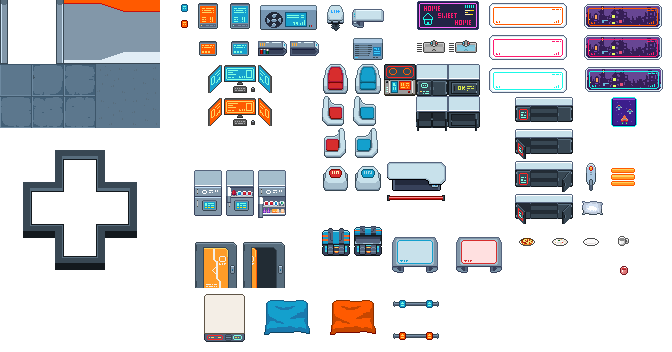
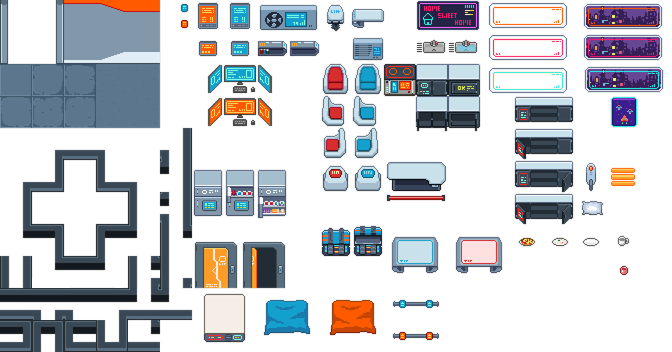
feat: update tile mapping to improve visual junctions in dungeon generation and tileset (draft)

diff --git a/src/game/systems/DungeonGenerator.ts b/src/game/systems/DungeonGenerator.ts
@@ -161,13 +161,6 @@ export class DungeonGenerator {
 
       // Top wall - riga 1 (cap arancione)
       groundLayer.weightedRandomize(TILES.WALL.TOP,      left + 1, top,     width - 2, 1);
-      // Propaga tile 4 a destra del primo tile 3: [2...2, 3, 4...4]
-      let fillTop = false;
-      for (let cx = left + 1; cx <= right - 1; cx++) {
-        const t = groundLayer.getTileAt(cx, top);
-        if (fillTop) { groundLayer.putTileAt(4, cx, top); }
-        else if (t && t.index === 3) { fillTop = true; }
-      }
       // Top wall - riga 2 (corpo grigio)
       groundLayer.weightedRandomize(TILES.WALL.TOP_BODY, left + 1, top + 1, width - 2, 1);
       // Bottom wall
@@ -226,9 +219,81 @@ export class DungeonGenerator {
       }
     });
 
+    // Pass 2a-fix: when the bottom of a LEFT door (210) is directly right of a RIGHT door bottom (150),
+    // replace 210 with 148 to match the correct visual junction.
+    // Also: when a BOTTOM door frame (148) is directly right of a RIGHT door frame (170),
+    // replace 148 with 210 to match the correct visual junction.
+    for (let ty = 0; ty < dungeon.height; ty++) {
+      for (let tx = 0; tx < dungeon.width; tx++) {
+        const t = groundLayer.getTileAt(tx, ty);
+        if (t && t.index === 210) {
+          const left = groundLayer.getTileAt(tx - 1, ty);
+          if (left && left.index === 150) {
+            groundLayer.putTileAt(148, tx, ty);
+          }
+        } else if (t && t.index === 148) {
+          const left = groundLayer.getTileAt(tx - 1, ty);
+          const right = groundLayer.getTileAt(tx + 1, ty);
+          if (left && left.index === 170) {
+            groundLayer.putTileAt(210, tx, ty);
+          } else if (left && left.index === 189) {
+            groundLayer.putTileAt(210, tx, ty);
+          } else if (right && right.index === 73) {
+            groundLayer.putTileAt(212, tx, ty);
+            groundLayer.putTileAt(194, tx + 1, ty);
+          }
+        } else if (t && t.index === 170) {
+          const below = groundLayer.getTileAt(tx, ty + 1);
+          const right = groundLayer.getTileAt(tx + 1, ty);
+          if (right && right.index === 210) {
+            groundLayer.putTileAt(192, tx, ty);
+          } else if (below && (below.index === 2 || below.index === 3 || below.index === 4)) {
+            groundLayer.putTileAt(189, tx, ty);
+          }
+        } else if (t && t.index === 150) {
+          const right = groundLayer.getTileAt(tx + 1, ty);
+          if (right && right.index === 148) {
+            // Frame destro di una porta (150) direttamente adiacente al frame sinistro di un'altra (148):
+            // il 150 è spurio, sostituire con parete inferiore normale.
+            groundLayer.putTileAt(170, tx, ty);
+          } else if (right && right.index === 189) {
+            groundLayer.putTileAt(212, tx, ty);
+          } else if (right && right.index === 170) {
+            const belowRight = groundLayer.getTileAt(tx + 1, ty + 1);
+            if (belowRight && (belowRight.index === 2 || belowRight.index === 3 || belowRight.index === 4)) {
+              groundLayer.putTileAt(212, tx, ty);
+            }
+          }
+        } else if (t && t.index === 171) {
+          const left = groundLayer.getTileAt(tx - 1, ty);
+          if (left && left.index === 189) {
+            groundLayer.putTileAt(194, tx, ty);
+          }
+        } else if (t && t.index === 73) {
+          const left = groundLayer.getTileAt(tx - 1, ty);
+          if (left && left.index === 148) {
+            groundLayer.putTileAt(212, tx - 1, ty);
+            groundLayer.putTileAt(194, tx, ty);
+          }
+        }
+      }
+    }
+
     // Pass 2b: Place corners and cap rows now that ALL door positions are known.
     dungeon.rooms.forEach((room) => {
       const { left, right, top, bottom } = room;
+
+      // Propaga tile 4 dopo il primo tile 3 nel top wall row, saltando le aperture porta (42)
+      // Gira qui (Pass 2b) in modo da vedere i tile di porta già piazzati da Pass 2a.
+      let fillTop = false;
+      for (let cx = left + 1; cx <= right - 1; cx++) {
+        const t = groundLayer.getTileAt(cx, top);
+        if (fillTop) {
+          if (!t || t.index !== 42) { groundLayer.putTileAt(4, cx, top); }
+        } else if (t && t.index === 3) {
+          fillTop = true;
+        }
+      }
 
       // Corners
       groundLayer.putTileAt(TILES.WALL.TOP_LEFT,  left,  top);
@@ -239,24 +304,35 @@ export class DungeonGenerator {
       groundLayer.putTileAt(topLeftBodyTile,  left,  top + 1);
       groundLayer.putTileAt(topRightBodyTile, right, top + 1);
       // Bottom corners: se il vicino esterno è una door tile, usa WALL.BOTTOM plain;
-      // se il vicino interno (left+1) è una door tile, usa tile 70 e sovrascrive il door con 71
-      const bottomRightTile = blockedDoorTiles.has(`${right + 1},${bottom}`) ? TILES.WALL.BOTTOM[0].index as number
-                            : blockedDoorTiles.has(`${right - 1},${bottom}`) ? 73
+      // se il vicino interno (left+1) è una door tile, usa tile 214/210 o 194/212.
+      // Se il corner stesso è già occupato da un tile di porta (blockedDoorTiles), non sovrascrivere.
+      const bottomRightBlocked = blockedDoorTiles.has(`${right},${bottom}`);
+      const bottomRightTile = bottomRightBlocked
+                            ? null
+                            : blockedDoorTiles.has(`${right + 1},${bottom}`) ? TILES.WALL.BOTTOM[0].index as number
+                            : blockedDoorTiles.has(`${right - 1},${bottom}`) ? 194
                             : TILES.WALL.BOTTOM_RIGHT;
-      const bottomLeftTile  = blockedDoorTiles.has(`${left  - 1},${bottom}`) ? TILES.WALL.BOTTOM[0].index as number
-                            : blockedDoorTiles.has(`${left  + 1},${bottom}`) ? 70
+      const bottomLeftBlocked = blockedDoorTiles.has(`${left},${bottom}`);
+      const bottomLeftTile  = bottomLeftBlocked
+                            ? null
+                            : blockedDoorTiles.has(`${left  - 1},${bottom}`) ? TILES.WALL.BOTTOM[0].index as number
+                            : blockedDoorTiles.has(`${left  + 1},${bottom}`) ? 214
                             : TILES.WALL.BOTTOM_LEFT;
-      groundLayer.putTileAt(bottomRightTile, right, bottom);
-      groundLayer.putTileAt(bottomLeftTile,  left,  bottom);
-      // Se il corner è diventato 70 (door interna a left+1), rimpiazzare anche quel door con 71
-      if (bottomLeftTile === 70) {
-        groundLayer.putTileAt(71, left + 1, bottom);
+      if (bottomRightTile !== null) groundLayer.putTileAt(bottomRightTile, right, bottom);
+      if (bottomLeftTile  !== null) groundLayer.putTileAt(bottomLeftTile,  left,  bottom);
+      // Se il corner è diventato 214 (door interna a left+1), rimpiazzare anche quel door con 210
+      if (bottomLeftTile === 214) {
+        groundLayer.putTileAt(210, left + 1, bottom);
       }
-      // Se il corner è diventato 73 e right,bottom-1 è stato sporcato dal BOTTOM_BODY
+      // Se il corner è diventato 194 (door interna a right-1), rimpiazzare anche quel door con 212
+      if (bottomRightTile === 194) {
+        groundLayer.putTileAt(212, right - 1, bottom);
+      }
+      // Se il corner è diventato 194 e right,bottom-1 è stato sporcato dal BOTTOM_BODY
       // (porta sul bordo inferiore con ultimo tile a x=right), ripristinare la parete destra.
       // Guard: se right,bottom-2 NON è bloccato, il 42 a right,bottom-1 è spillover di BOTTOM_BODY
       // (non un'apertura di porta RIGHT che coprirebbe anche bottom-2).
-      if (bottomRightTile === 73 && !blockedDoorTiles.has(`${right},${bottom - 2}`)) {
+      if (bottomRightTile === 194 && !blockedDoorTiles.has(`${right},${bottom - 2}`)) {
         groundLayer.putTileAt(TILES.WALL.RIGHT[0].index as number, right, bottom - 1);
       }
 
@@ -372,16 +448,7 @@ export class DungeonGenerator {
     const occupiedRooms = new Set<string>();
     const occupiedTiles = new Set<string>();
 
-    // Configurable stairs placement (defaults to end room).
-    const stairsRole = config.placement?.stairs?.roomRole ?? "end";
-    const stairsTile = config.placement?.stairs?.tileIndex ?? TILES.STAIRS;
-    const stairsCandidates = Phaser.Utils.Array.Shuffle(getRoomsByRole(stairsRole).slice()) as Room[];
-    const stairsRoom = stairsCandidates[0] ?? endRoom;
-    stuffLayer.putTileAt(stairsTile, stairsRoom.centerX, stairsRoom.centerY);
-    occupiedRooms.add(roomKey(stairsRoom));
-    occupiedTiles.add(tileKey(stairsRoom.centerX, stairsRoom.centerY));
-
-    // Configurable object placement with defaults equivalent to previous chest behavior.
+    // Scale disabilitate. Placement oggetti attivo.
     const objectRules = config.placement?.objects ?? [];
 
     for (const rule of objectRules) {
@@ -493,7 +560,7 @@ export class DungeonGenerator {
           tryPlaceInRoom(room, true);
         }
       }
-    }
+      }
 
     stuffLayer.setCollisionByExclusion([-1, ...TILES.FLOOR_INDICES]);
 

diff --git a/src/game/systems/TileMapping.ts b/src/game/systems/TileMapping.ts
@@ -114,7 +114,7 @@ export const DEFAULT_TILES: TileMap = {
     // Porta BOTTOM: riga interna — tutto pavimento (dentro la stanza, no post laterali)
     BOTTOM_BODY: [42, 42, 42, 42],
     // Porta LEFT: 4 righe verticali [top, mid1, mid2, bottom] — curve interne ai bordi
-    LEFT:   [[106], [42], [42], [148]],
+    LEFT:   [[106], [42], [42], [210]],
     // Porta RIGHT
     RIGHT:  [[108], [42], [42], [150]],
   },
